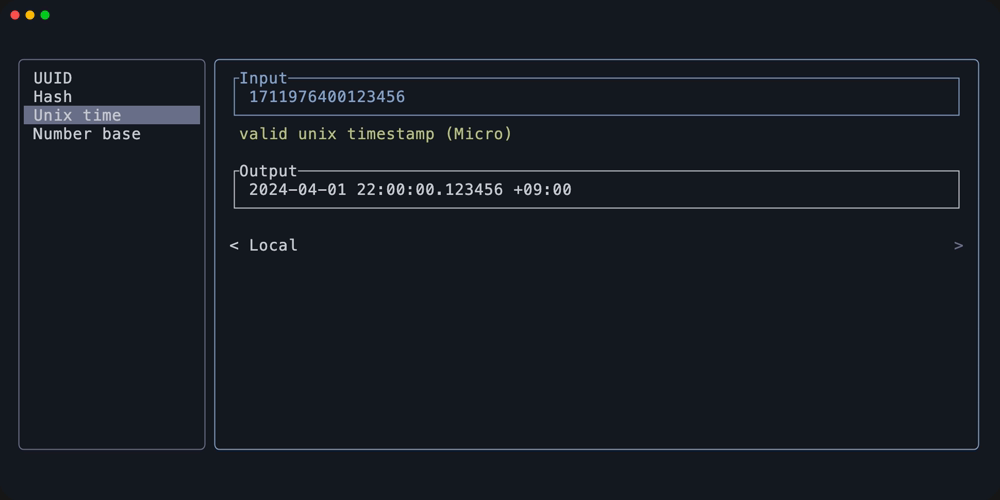
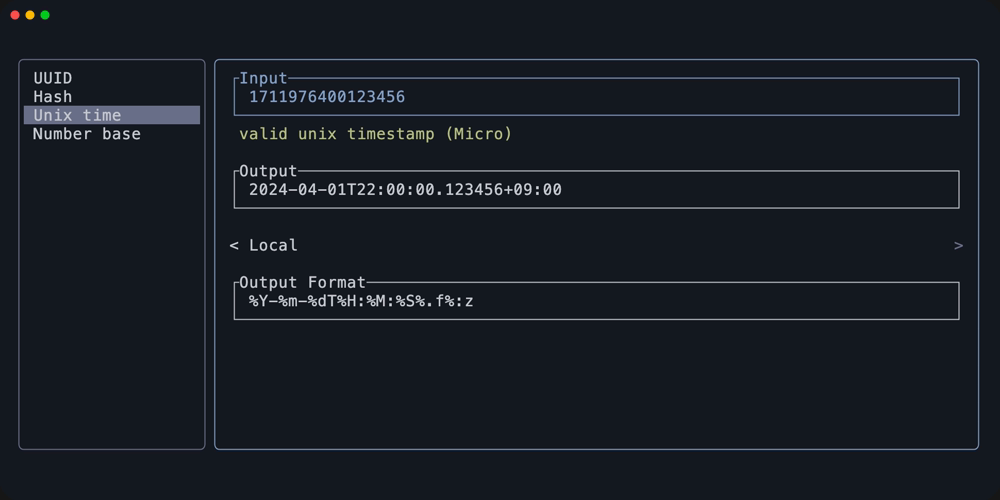
Update README

Changed region(s): [[0.217, 0.54, 0.961, 0.66], [0.496, 0.36, 0.589, 0.39], [0.341, 0.36, 0.372, 0.39]]

diff --git a/README.md b/README.md
@@ -19,9 +19,22 @@ Detailed keybindings for each features can be displayed pressing the `?`.
 
 ## Features / Screenshots
 
+### UUID
+
 <img src="./img/uuid.png" width=600>
+
+### Hash
+
 <img src="./img/hash.png" width=600>
+
+### Unix time
+
 <img src="./img/unixtime.png" width=600>
+
+Datetime output format follows [strftime](https://docs.rs/chrono/latest/chrono/format/strftime/index.html).
+
+### Number base
+
 <img src="./img/numberbase.png" width=600>
 
 ## License
